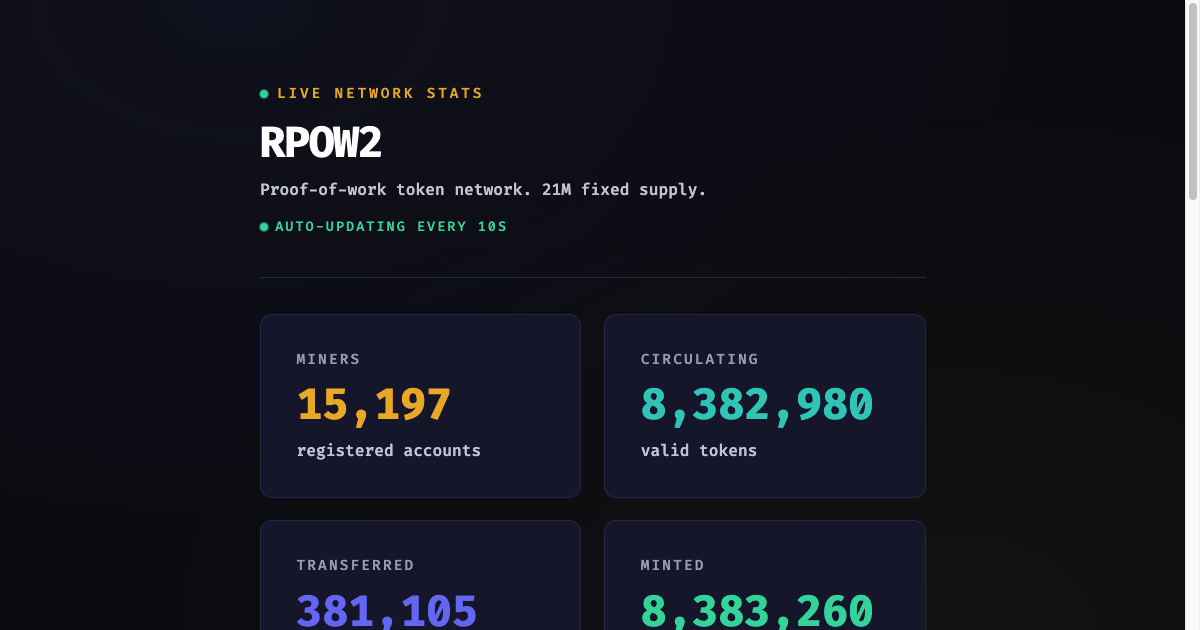
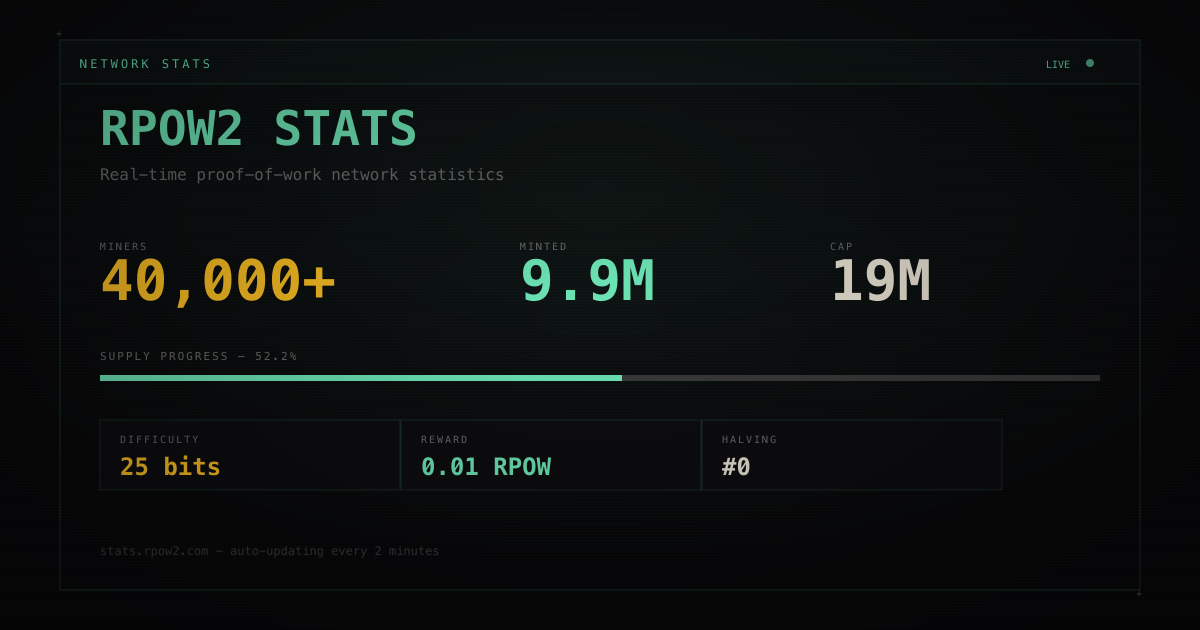
feat(web): new OG images, Google Analytics with conversion tracking
- OG images: terminal-style SVG→PNG for both main site and stats page
  with live stats (40K miners, 9.9M minted, supply progress bar)
- Google Analytics: G-3PG48F0MCP tag added to index.html
- Conversion events: sign_up (magic link sent), mint_token (solution
  accepted), send_tokens (transfer completed)
- gtag Window type declaration added

diff --git a/apps/web/index.html b/apps/web/index.html
@@ -19,6 +19,14 @@
     <meta name="twitter:title" content="RPOW2 — Proof-of-Work Token Network" />
     <meta name="twitter:description" content="Mine tokens in your browser. 21M fixed supply. Bridge to Solana. A tribute to Hal Finney's original RPOW." />
     <meta name="twitter:image" content="https://rpow2.com/og-image.png" />
+    <!-- Google Analytics -->
+    <script async src="https://www.googletagmanager.com/gtag/js?id=G-3PG48F0MCP"></script>
+    <script>
+      window.dataLayer = window.dataLayer || [];
+      function gtag(){dataLayer.push(arguments);}
+      gtag('js', new Date());
+      gtag('config', 'G-3PG48F0MCP');
+    </script>
     <link rel="preconnect" href="https://fonts.googleapis.com" />
     <link rel="stylesheet" href="https://fonts.googleapis.com/css2?family=IBM+Plex+Mono:wght@400;500;700&display=swap" />
     <link rel="stylesheet" href="/src/styles.css" />

diff --git a/apps/web/src/vite-env.d.ts b/apps/web/src/vite-env.d.ts
@@ -1,0 +1,4 @@
+
+interface Window {
+  gtag?(...args: unknown[]): void;
+}

diff --git a/apps/web/src/pages/Login.tsx b/apps/web/src/pages/Login.tsx
@@ -88,6 +88,7 @@ export function LoginPage() {
       setStatus('cooldown');
       setCooldown((res as any).cooldown_seconds ?? 30);
       setTurnstileToken(null);
+      window.gtag?.('event', 'sign_up', { method: 'magic_link' });
       if (widgetIdRef.current && window.turnstile) {
         window.turnstile.reset(widgetIdRef.current);
       }

diff --git a/apps/web/src/pages/Mine.tsx b/apps/web/src/pages/Mine.tsx
@@ -75,6 +75,7 @@ export function MinePage() {
           const r = await api.mint({ challenge_id: ch.challenge_id, solution_nonce: m.solution_nonce });
           setLastTokenId(r.token.id);
           setSessionMinted(n => n + 1);
+          window.gtag?.('event', 'mint_token', { value: r.token.value });
           await refresh();
           refreshLedger();
           // Loop: kick off the next challenge unless the user asked to stop.

diff --git a/apps/web/src/pages/Send.tsx b/apps/web/src/pages/Send.tsx
@@ -37,6 +37,7 @@ export function SendPage() {
       setPending(r.pending === true);
       setSentTo(r.recipient_email);
       setSentAmt(formatRpow(r.transferred_base_units));
+      window.gtag?.('event', 'send_tokens', { value: r.transferred_base_units });
       await refresh();
     } catch (err: any) {
       setStatus('error');